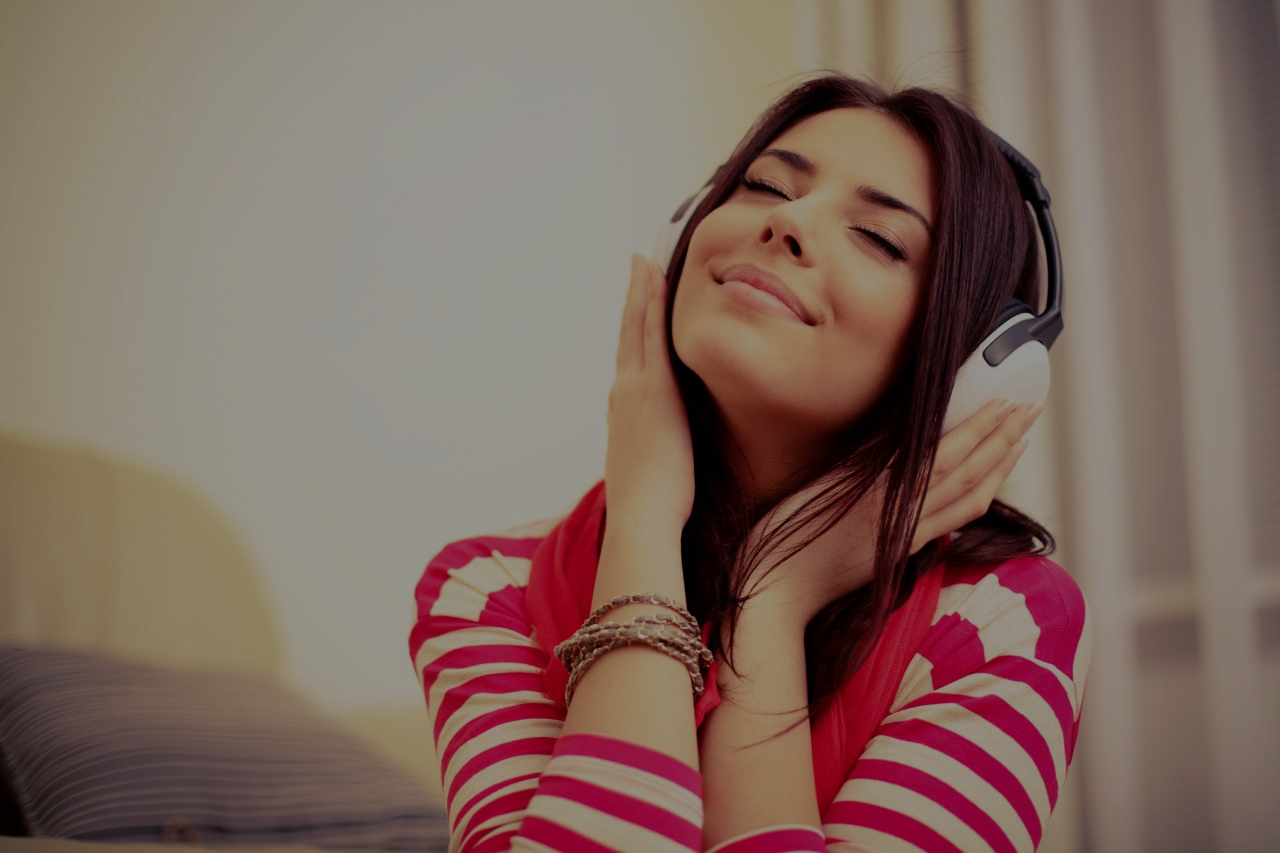
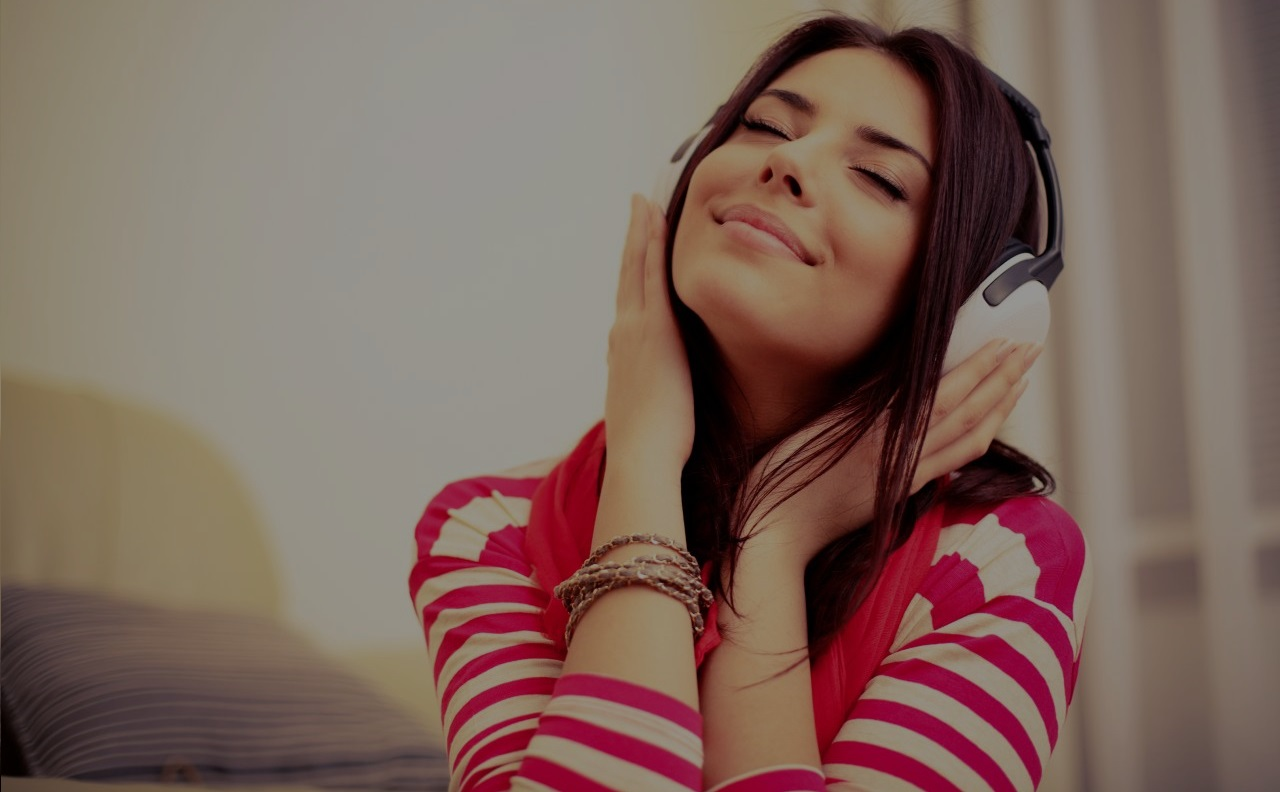
Layout change

diff --git a/css/carousel.css b/css/carousel.css
@@ -23,6 +23,8 @@ body {
 .navbar-wrapper > .container {
   padding-right: 0;
   padding-left: 0;
+  
+  width:100%;
 }
 .navbar-wrapper .navbar {
   padding-right: 15px;
@@ -59,9 +61,7 @@ body {
   display: block;
   margin-left: auto;
   margin-right: auto;
-    
-  height: auto;
-  width: 1200px;
+  width: 100%;
 }
 
 .carousel-inner .carousel-caption {
